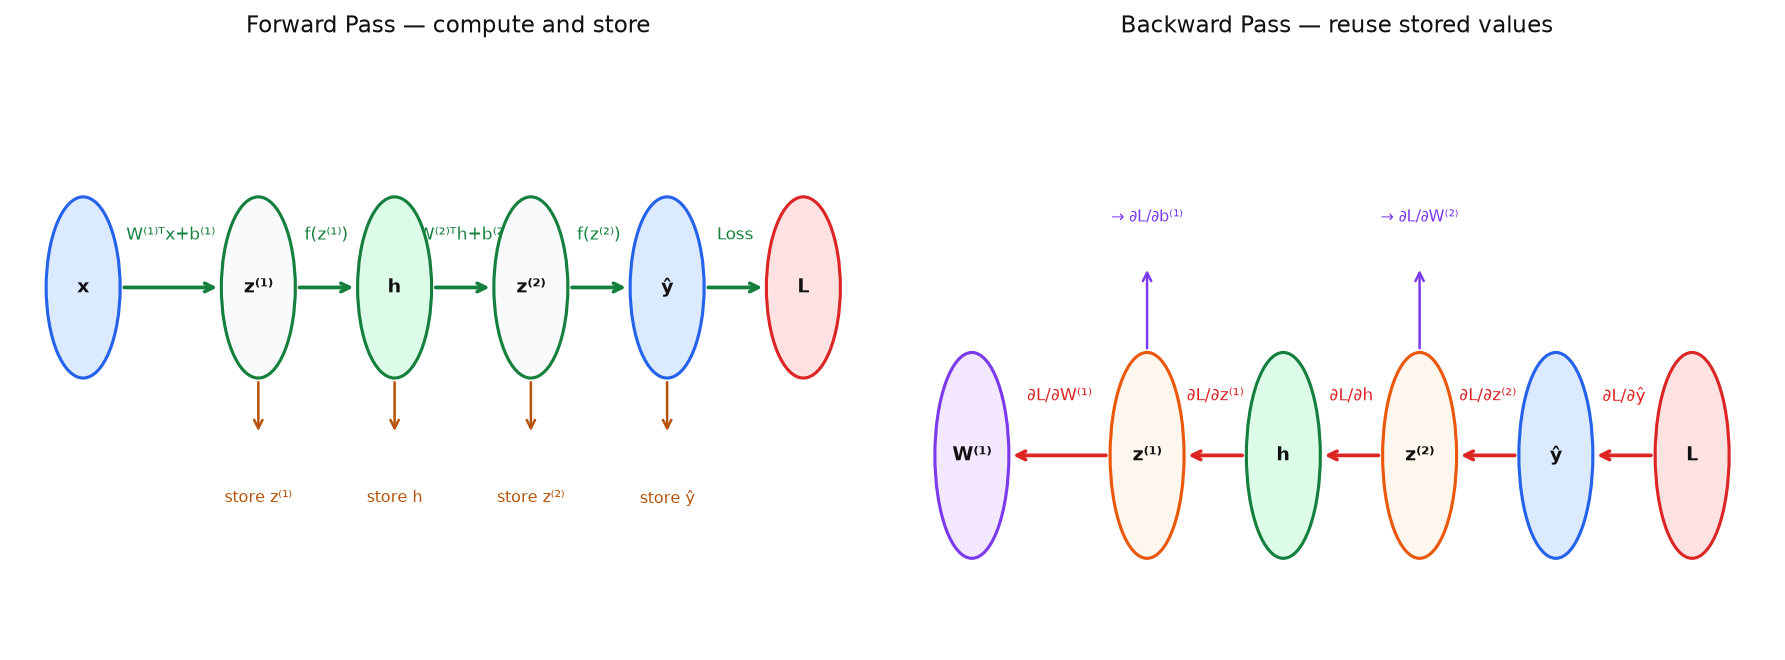
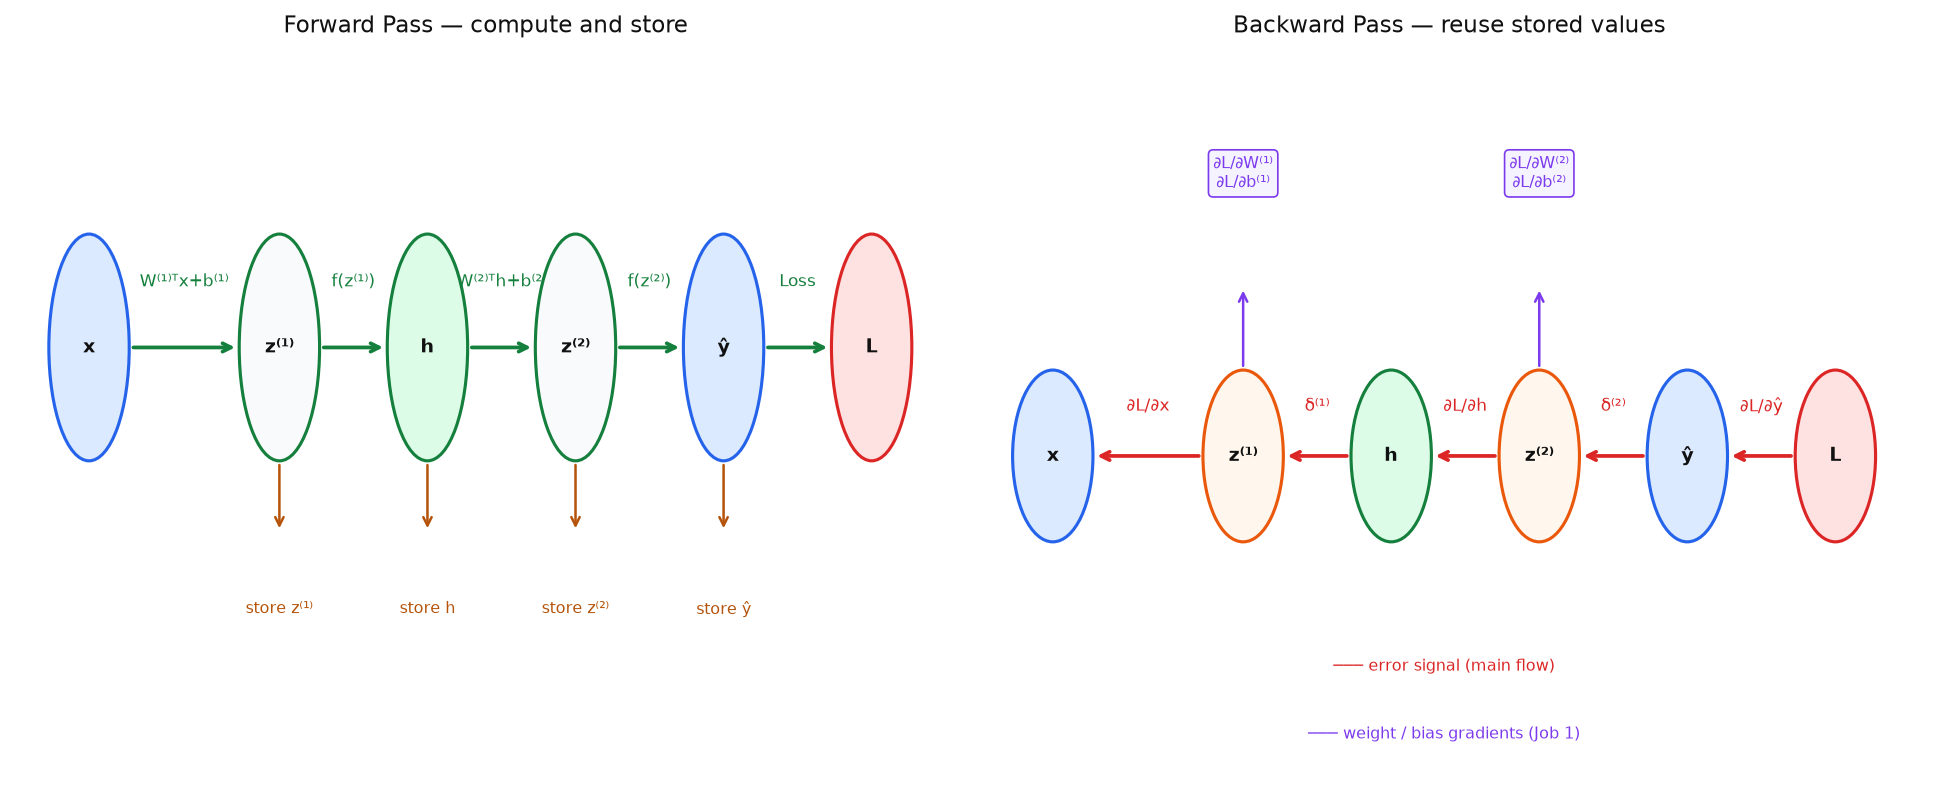
update note 06: add delta definition, two jobs framework, split forward/backward pass diagrams

diff --git a/notes/scripts/plot_forward_backward_pass.py b/notes/scripts/plot_forward_backward_pass.py
@@ -1,81 +1,110 @@
 import matplotlib.pyplot as plt
 import os
 
-fig, axes = plt.subplots(1, 2, figsize=(12, 4.5))
-fig.patch.set_facecolor('white')
+out_dir = os.path.join(os.path.dirname(__file__), '..', 'images')
 
-def node(ax, x, y, label, fc, ec, fontsize=9):
-    c = plt.Circle((x, y), 0.38, facecolor=fc, edgecolor=ec, linewidth=1.5, zorder=4)
+# ── SHARED HELPERS ─────────────────────────────────────────────────────────────
+
+def node(ax, x, y, label, fc, ec, fontsize=10):
+    c = plt.Circle((x, y), 0.42, facecolor=fc, edgecolor=ec, linewidth=1.8, zorder=4)
     ax.add_patch(c)
     ax.text(x, y, label, ha='center', va='center', color='#111111',
             fontsize=fontsize, fontweight='bold', zorder=5)
 
-def arr(ax, x0, y0, x1, y1, color='#9ca3af', label='', above=True):
+def arr(ax, x0, y0, x1, y1, color='#9ca3af', label='', above=True, fontsize=8.5):
     ax.annotate('', xy=(x1, y1), xytext=(x0, y0),
-                arrowprops=dict(arrowstyle='->', color=color, lw=1.8), zorder=3)
+                arrowprops=dict(arrowstyle='->', color=color, lw=2.0), zorder=3)
     if label:
         mx, my = (x0 + x1) / 2, (y0 + y1) / 2
-        offset = 0.22 if above else -0.22
+        offset = 0.26 if above else -0.26
         ax.text(mx, my + offset, label, ha='center', va='center',
-                color=color, fontsize=8)
+                color=color, fontsize=fontsize)
 
 # ── FORWARD PASS ──────────────────────────────────────────────────────────────
-ax = axes[0]
+
+fig, ax = plt.subplots(figsize=(13, 4.0))
+fig.patch.set_facecolor('white')
 ax.set_facecolor('white')
 
-xs     = [1.0, 2.8, 4.2, 5.6, 7.0, 8.4]
+xs     = [1.2, 3.2, 5.2, 7.2, 9.2, 11.2]
 labels = ['x', 'z⁽¹⁾', 'h', 'z⁽²⁾', 'ŷ', 'L']
 colors_fc = ['#dbeafe', '#f9fafb', '#dcfce7', '#f9fafb', '#dbeafe', '#fee2e2']
-colors_ec = ['#2563eb', '#15803d', '#15803d', '#15803d', '#2563eb', '#dc2626']
+colors_ec = ['#2563eb', '#6b7280', '#15803d', '#6b7280', '#2563eb', '#dc2626']
 
 for x, lbl, fc, ec in zip(xs, labels, colors_fc, colors_ec):
     node(ax, x, 2.5, lbl, fc, ec)
 
-edge_labels = ['', 'W⁽¹⁾ᵀx+b⁽¹⁾', 'f(z⁽¹⁾)', 'W⁽²⁾ᵀh+b⁽²⁾', 'f(z⁽²⁾)', 'Loss']
+edge_labels = ['', 'W⁽¹⁾ᵀx + b⁽¹⁾', 'σ(z⁽¹⁾)', 'W⁽²⁾ᵀh + b⁽²⁾', 'σ(z⁽²⁾)', 'MSE']
 for i in range(len(xs) - 1):
-    arr(ax, xs[i] + 0.38, 2.5, xs[i+1] - 0.38, 2.5, '#15803d', edge_labels[i+1])
+    arr(ax, xs[i] + 0.42, 2.5, xs[i+1] - 0.42, 2.5, '#15803d', edge_labels[i+1])
 
-store_xs     = [2.8, 4.2, 5.6, 7.0]
+# Store annotations below nodes
+store_xs     = [3.2, 5.2, 7.2, 9.2]
 store_labels = ['store z⁽¹⁾', 'store h', 'store z⁽²⁾', 'store ŷ']
 for x, lbl in zip(store_xs, store_labels):
-    ax.annotate('', xy=(x, 1.88), xytext=(x, 2.12),
-                arrowprops=dict(arrowstyle='->', color='#b45309', lw=1.2), zorder=3)
-    ax.text(x, 1.65, lbl, ha='center', va='top', color='#b45309', fontsize=7.5)
+    ax.annotate('', xy=(x, 1.85), xytext=(x, 2.08),
+                arrowprops=dict(arrowstyle='->', color='#b45309', lw=1.4), zorder=3)
+    ax.text(x, 1.62, lbl, ha='center', va='top', color='#b45309', fontsize=8)
 
-ax.set_xlim(0.3, 9.2)
-ax.set_ylim(1.0, 3.5)
+ax.set_xlim(0.4, 12.0)
+ax.set_ylim(1.1, 3.4)
 ax.axis('off')
-ax.set_title('Forward Pass — compute and store', color='#111111', fontsize=11, pad=8)
+ax.set_title('Forward Pass — compute and store intermediate values', color='#111111', fontsize=12, pad=10)
+
+plt.tight_layout()
+plt.savefig(os.path.join(out_dir, 'forward_pass.png'), dpi=150, bbox_inches='tight',
+            facecolor='white', edgecolor='none')
+plt.close()
 
 # ── BACKWARD PASS ─────────────────────────────────────────────────────────────
-ax = axes[1]
+
+fig, ax = plt.subplots(figsize=(13, 5.2))
+fig.patch.set_facecolor('white')
 ax.set_facecolor('white')
 
-xs2     = [8.4, 7.0, 5.6, 4.2, 2.8, 1.0]
-labels2 = ['L', 'ŷ', 'z⁽²⁾', 'h', 'z⁽¹⁾', 'W⁽¹⁾']
-colors_fc2 = ['#fee2e2', '#dbeafe', '#fff7ed', '#dcfce7', '#fff7ed', '#f3e8ff']
-colors_ec2 = ['#dc2626', '#2563eb', '#ea580c', '#15803d', '#ea580c', '#7c3aed']
+# Main flow right to left: L → ŷ → z⁽²⁾ → h → z⁽¹⁾ → x
+xs2     = [11.2, 9.2, 7.2, 5.2, 3.2, 1.2]
+labels2 = ['L', 'ŷ', 'z⁽²⁾', 'h', 'z⁽¹⁾', 'x']
+colors_fc2 = ['#fee2e2', '#dbeafe', '#fff7ed', '#dcfce7', '#fff7ed', '#dbeafe']
+colors_ec2 = ['#dc2626', '#2563eb', '#ea580c', '#15803d', '#ea580c', '#2563eb']
 
 for x, lbl, fc, ec in zip(xs2, labels2, colors_fc2, colors_ec2):
     node(ax, x, 2.5, lbl, fc, ec)
 
-grad_labels = ['∂L/∂ŷ', '∂L/∂z⁽²⁾', '∂L/∂h', '∂L/∂z⁽¹⁾', '∂L/∂W⁽¹⁾']
+# Arrow labels: show what quantity travels on each segment
+# L→ŷ: ∂L/∂ŷ
+# ŷ→z⁽²⁾: δ⁽²⁾ = ∂L/∂z⁽²⁾  (this is where delta is formed)
+# z⁽²⁾→h: ∂L/∂h  (crosses layer boundary — not delta)
+# h→z⁽¹⁾: δ⁽¹⁾ = ∂L/∂z⁽¹⁾  (layer 1 converts ∂L/∂h into its own delta)
+# z⁽¹⁾→x: ∂L/∂x
+grad_labels = ['∂L/∂ŷ', 'δ⁽²⁾ = ∂L/∂z⁽²⁾', '∂L/∂h', 'δ⁽¹⁾ = ∂L/∂z⁽¹⁾', '∂L/∂x']
 for i in range(len(xs2) - 1):
-    arr(ax, xs2[i] - 0.38, 2.5, xs2[i+1] + 0.38, 2.5, '#dc2626', grad_labels[i])
+    arr(ax, xs2[i] - 0.42, 2.5, xs2[i+1] + 0.42, 2.5, '#dc2626', grad_labels[i], fontsize=8)
 
-branch_xs     = [5.6, 2.8]
-branch_labels = ['→ ∂L/∂W⁽²⁾', '→ ∂L/∂b⁽¹⁾']
-for x, lbl in zip(branch_xs, branch_labels):
-    ax.annotate('', xy=(x, 3.2), xytext=(x, 2.88),
-                arrowprops=dict(arrowstyle='->', color='#7c3aed', lw=1.2), zorder=3)
-    ax.text(x, 3.35, lbl, ha='center', va='bottom', color='#7c3aed', fontsize=7.5)
+# Job 1 branch at z⁽²⁾ — upward arrow + box
+ax.annotate('', xy=(7.2, 3.35), xytext=(7.2, 2.92),
+            arrowprops=dict(arrowstyle='->', color='#7c3aed', lw=1.5), zorder=3)
+ax.text(7.2, 4.05, '∂L/∂W⁽²⁾ = δ⁽²⁾ · hᵀ\n∂L/∂b⁽²⁾ = δ⁽²⁾',
+        ha='center', va='center', color='#7c3aed', fontsize=8.5,
+        bbox=dict(boxstyle='round,pad=0.4', facecolor='#f5f3ff', edgecolor='#7c3aed', linewidth=1.0))
 
-ax.set_xlim(0.3, 9.2)
-ax.set_ylim(1.8, 4.0)
+# Job 1 branch at z⁽¹⁾ — upward arrow + box
+ax.annotate('', xy=(3.2, 3.35), xytext=(3.2, 2.92),
+            arrowprops=dict(arrowstyle='->', color='#7c3aed', lw=1.5), zorder=3)
+ax.text(3.2, 4.05, '∂L/∂W⁽¹⁾ = δ⁽¹⁾ · xᵀ\n∂L/∂b⁽¹⁾ = δ⁽¹⁾',
+        ha='center', va='center', color='#7c3aed', fontsize=8.5,
+        bbox=dict(boxstyle='round,pad=0.4', facecolor='#f5f3ff', edgecolor='#7c3aed', linewidth=1.0))
+
+# Legend
+ax.text(6.2, 1.55, '─── error signal / delta (main flow)', color='#dc2626', fontsize=8, ha='center')
+ax.text(6.2, 1.22, '─── weight & bias gradients — Job 1 (stays local)', color='#7c3aed', fontsize=8, ha='center')
+
+ax.set_xlim(0.4, 12.0)
+ax.set_ylim(1.0, 4.8)
 ax.axis('off')
-ax.set_title('Backward Pass — reuse stored values', color='#111111', fontsize=11, pad=8)
+ax.set_title('Backward Pass — reuse stored values, two jobs per layer', color='#111111', fontsize=12, pad=10)
 
 plt.tight_layout()
-out = os.path.join(os.path.dirname(__file__), '..', 'images', 'forward_backward_pass.png')
-plt.savefig(out, dpi=150, bbox_inches='tight', facecolor='white', edgecolor='none')
+plt.savefig(os.path.join(out_dir, 'backward_pass.png'), dpi=150, bbox_inches='tight',
+            facecolor='white', edgecolor='none')
 plt.close()

diff --git a/notes/06-gradient-descent-backpropagation.md b/notes/06-gradient-descent-backpropagation.md
@@ -282,25 +282,90 @@ This is exactly the formula from Note 03's credit assignment section. Three thin
 
 ### Forward Pass and Backward Pass
 
-Training consists of two passes. The diagram below shows both: the forward pass computes and stores intermediate values left to right; the backward pass reuses those values to propagate gradients right to left.
+Training consists of two passes. The forward pass computes predictions and stores intermediate values left to right.
 
-![Forward and Backward Pass](images/forward_backward_pass.png)
+![Forward Pass — compute and store intermediate values](images/forward_pass.png)
 
-The quantity ∂L/∂z at each layer is called the **error signal** (often written δ) for that layer. It is computed once and reused to get both the weight gradient and the error signal for the layer below:
+The backward pass reuses those stored values to propagate gradients right to left.
+
+![Backward Pass — reuse stored values, two jobs per layer](images/backward_pass.png)
+
+### Delta and the Two Jobs of Each Layer
+
+Before tracing the backward pass, two terms need precise definitions because they are used throughout the rest of this note and the course.
+
+**Delta (δ⁽ˡ⁾)** is the derivative of the loss with respect to the pre-activation z⁽ˡ⁾ of layer l:
 
 ```
-δ⁻²⁾ = ∂L/∂z⁻²⁾ = ∂L/∂ŷ · f'(z⁻²⁾)          ← error signal at output layer
-
-∂L/∂W⁻²⁾ = δ⁻²⁾ · hᵀ                          ← weight gradient (outer product)
-∂L/∂b⁻²⁾ = δ⁻²⁾                               ← bias gradient
-
-δ⁻¹⁾ = ∂L/∂z⁻¹⁾ = (W⁻²⁾ · δ⁻²⁾) · f'(z⁻¹⁾)   ← error signal propagated back
-
-∂L/∂W⁻¹⁾ = δ⁻¹⁾ · xᵀ                          ← weight gradient
-∂L/∂b⁻¹⁾ = δ⁻¹⁾                               ← bias gradient
+δ⁽ˡ⁾ = ∂L/∂z⁽ˡ⁾
 ```
 
-This pattern — compute δ for a layer, use it to get weight gradients, propagate δ to the layer below — repeats for every layer in the network, no matter how deep.
+It is not the gradient of the weights. It is an intermediate quantity — the error signal at the pre-activation of layer l. It lives at z, not at W or b.
+
+**Gradient** is the derivative of the loss with respect to a learnable parameter:
+
+```
+∂L/∂W⁽ˡ⁾   — gradient with respect to the weight matrix
+∂L/∂b⁽ˡ⁾   — gradient with respect to the bias vector
+```
+
+Gradients are what gradient descent actually uses to update parameters. Delta is the stepping stone to get there — you cannot compute the weight gradients without first computing δ.
+
+> δ⁽ˡ⁾ = ∂L/∂z⁽ˡ⁾ lives at the pre-activation. The weight gradient ∂L/∂W⁽ˡ⁾ lives at the parameters. Delta is computed first and used to produce both.
+
+Once a layer has its δ, it does exactly two jobs:
+
+**Job 1 — Update its own parameters (stays local):**
+
+```
+∂L/∂W⁽ˡ⁾ = δ⁽ˡ⁾ · (input to layer l)ᵀ     ← weight gradient
+∂L/∂b⁽ˡ⁾ = δ⁽ˡ⁾                            ← bias gradient
+```
+
+The input to layer 2 is h; the input to layer 1 is x. These gradients are used immediately to update W⁽ˡ⁾ and b⁽ˡ⁾. They go nowhere else.
+
+**Job 2 — Produce the backward signal for the layer below:**
+
+```
+∂L/∂(input to layer l) = (W⁽ˡ⁾)ᵀ · δ⁽ˡ⁾
+```
+
+This tells the layer below how much each of its activations contributed to the loss. The layer below then multiplies this by its own activation derivative to get its own δ:
+
+```
+δ⁽ˡ⁻¹⁾ = ∂L/∂h⁽ˡ⁻¹⁾ ⊙ f'(z⁽ˡ⁻¹⁾)
+        = (W⁽ˡ⁾)ᵀ · δ⁽ˡ⁾ ⊙ f'(z⁽ˡ⁻¹⁾)
+```
+
+The boundary between layers is ∂L/∂h — the gradient with respect to the hidden activations. Delta δ⁽ˡ⁾ is always local to its own layer; what crosses the boundary is ∂L/∂h.
+
+Written out for the full 2-layer network, showing both the δ shorthand and the full ∂L/∂z form:
+
+```
+── Layer 2 ───────────────────────────────────────────────────────────────────
+
+δ⁽²⁾  =  ∂L/∂z⁽²⁾  =  ∂L/∂ŷ · f'(z⁽²⁾)           ← compute delta first
+
+Job 1 (stays local):
+  ∂L/∂W⁽²⁾  =  δ⁽²⁾ · hᵀ        =  ∂L/∂z⁽²⁾ · hᵀ        ← weight gradient
+  ∂L/∂b⁽²⁾  =  δ⁽²⁾             =  ∂L/∂z⁽²⁾              ← bias gradient
+
+Job 2 (crosses boundary to Layer 1):
+  ∂L/∂h     =  (W⁽²⁾)ᵀ · δ⁽²⁾  =  (W⁽²⁾)ᵀ · ∂L/∂z⁽²⁾   ← backward signal
+
+── Layer 1 ───────────────────────────────────────────────────────────────────
+
+δ⁽¹⁾  =  ∂L/∂z⁽¹⁾  =  ∂L/∂h ⊙ f'(z⁽¹⁾)            ← convert incoming signal to delta
+
+Job 1 (stays local):
+  ∂L/∂W⁽¹⁾  =  δ⁽¹⁾ · xᵀ        =  ∂L/∂z⁽¹⁾ · xᵀ        ← weight gradient
+  ∂L/∂b⁽¹⁾  =  δ⁽¹⁾             =  ∂L/∂z⁽¹⁾              ← bias gradient
+
+Job 2 (chain stops — x has no parameters):
+  ∂L/∂x     =  (W⁽¹⁾)ᵀ · δ⁽¹⁾  =  (W⁽¹⁾)ᵀ · ∂L/∂z⁽¹⁾   ← never used
+```
+
+This pattern — compute δ for a layer, use it for Job 1 and Job 2, pass ∂L/∂a to the layer below which converts it to its own δ — repeats for every layer in the network, no matter how deep.
 
 > Backpropagation is not a separate algorithm from the chain rule — it is the chain rule applied in the right order, reusing intermediate results so that each value is computed exactly once. This is what makes it O(P) rather than O(P²).
 
